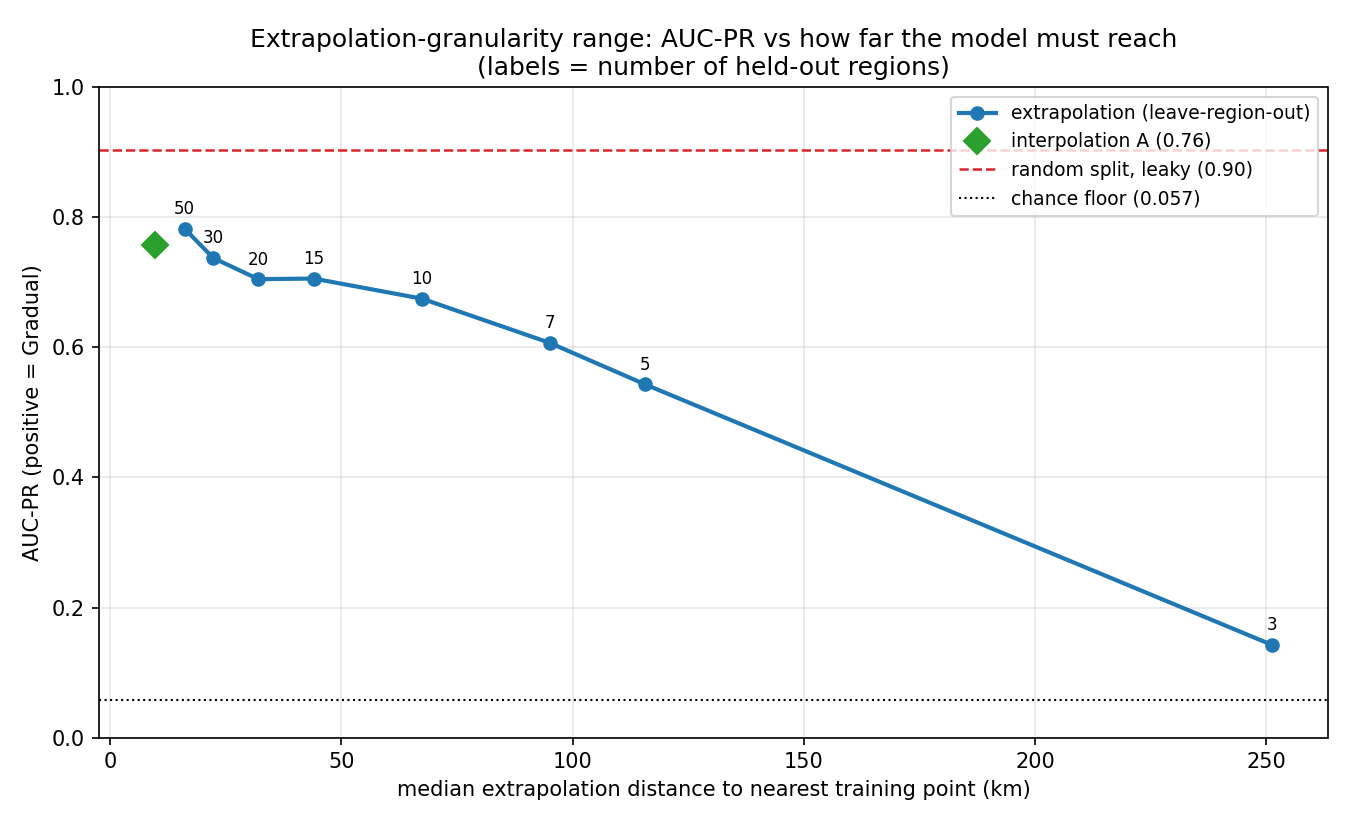
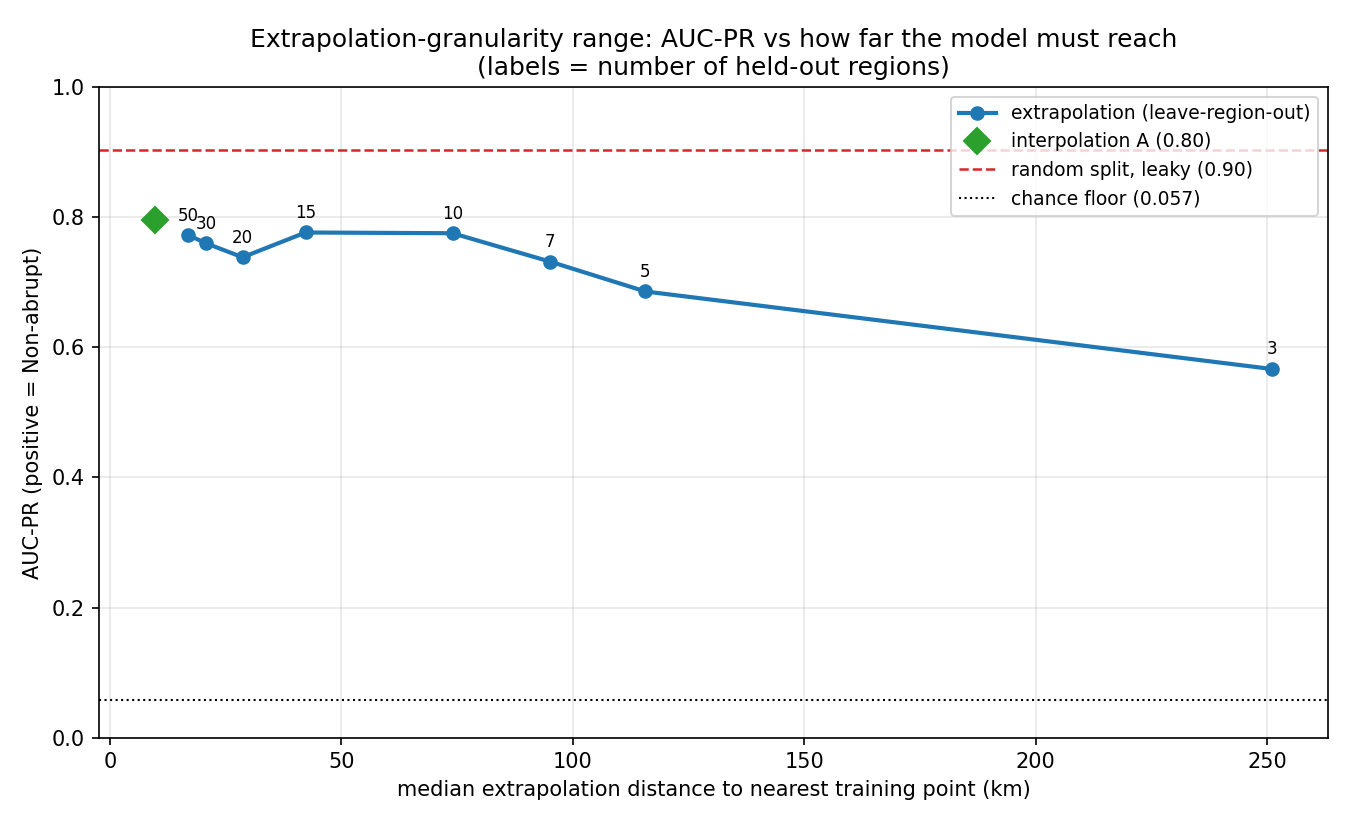
Regenerate verify-ml FINDINGS + scrub diagnostics rot (T28)

diff --git a/diagnostics/repeated_cv.py b/diagnostics/repeated_cv.py
@@ -38,12 +38,12 @@ from _data import load
 SCALES = [5, 10, 25, 50, 100, 200]   # matches SWEEP_CELL_KM (5 km bookend added, T-repeated-cv)
 N_REPEATS = 20                        # block->fold reshuffles per scale
 SEED0 = 42                            # repeat r uses CV seed SEED0 + r
-LOGIT_C = 1.0                         # best fixed C at the operative scale (verified: C=0.01/0.1/1.0
-                                      # -> 0.740/0.768/0.785 OOF AUC-PR @10 km), so the baseline is
-                                      # its strongest fixed config, not a handicap. NOTE: the headline
-                                      # pipeline SELECTS C per fold, which reaches ~0.81 @10 km (adaptive
-                                      # > any single fixed C); this diagnostic fixes it to isolate
-                                      # partition variance from selection variance for both models.
+LOGIT_C = 1.0                         # strongest fixed C at the operative scale (OOF AUC-PR rose
+                                      # monotonically with C across the tested grid), so the baseline
+                                      # runs at its best fixed config, not a handicap. NOTE: the headline
+                                      # pipeline SELECTS C per fold (adaptive > any single fixed C);
+                                      # this diagnostic fixes it to isolate partition variance from
+                                      # selection variance for both models.
 FIG = Path(__file__).resolve().parent / 'repeated_cv.png'
 
 

diff --git a/diagnostics/block_cv.py b/diagnostics/block_cv.py
@@ -4,8 +4,8 @@ Consumes models/spatial_cv.py (the production splitter) at the SAME geometry the
 training pipeline uses -- Alaska Albers equal-area blocks (`albers_grid`), 5-fold,
 seed 42 -- so any buffer read off here is literally the buffer train_xgboost.py
 will impose. Three questions:
-  (1) GEOMETRY: for the pipeline's albers_grid cell sizes, how do the 1,107
-      Non-abrupt (minority) points spread across folds? A fold with ~no positives
+  (1) GEOMETRY: for the pipeline's albers_grid cell sizes, how do the minority
+      Non-abrupt points spread across folds? A fold with ~no positives
       makes AUC-PR unstable -> informs the block-size sweep.
   (2) BUFFER (T43): sweep the dead-zone buffer at the OPERATIVE block size
       (albers_grid, 10 km -> interpolation/case A, the map-serving regime) with a
@@ -272,8 +272,9 @@ def main():
     chosen = buffer_sweep(X, yv, lat, lon, prev)
     a_vs_b(X, yv, lat, lon, chosen)
 
-    print("\nCross-check vs the random-split probe (leakage_decay.py): random-split "
-          "AUC-PR=0.904 (leaky), leakage-specific gap contiguous through ~2 km.")
+    print("\nCross-check vs the random-split probe (leakage_decay.py): the random-split "
+          "AUC-PR is inflated by near-twin leakage, and the leakage-specific gap is "
+          "contiguous only over the first few km before the training pool depletes.")
 
 
 if __name__ == '__main__':

diff --git a/diagnostics/aoa_calibration.py b/diagnostics/aoa_calibration.py
@@ -188,10 +188,12 @@ def main():
                 f'operative spatial-CV OOF.')
         note = 'Calibration located an empirical degradation boundary within the sampled DI range.'
     else:  # measured_skill_envelope
+        _finite_sk = [r['ap'] / floor for r in rows_rank if np.isfinite(r['ap'])]
+        _min_sk = min(_finite_sk) if _finite_sk else float('nan')
         rule = ('edge of the measured-skill envelope = maximum DI the operative spatial-CV OOF '
-                'verified. OOF AUC-PR stayed ~15x the prevalence floor across the ENTIRE tested '
-                'DI range (no degradation), so reliability is demonstrated everywhere the sample '
-                'reaches; cells with DI beyond this are flagged as genuine extrapolation.')
+                f'verified. OOF AUC-PR stayed >= {_min_sk:.0f}x the prevalence floor across the '
+                'ENTIRE tested DI range (no degradation), so reliability is demonstrated everywhere '
+                'the sample reaches; cells with DI beyond this are flagged as genuine extrapolation.')
         note = ('OOF skill did NOT decay within the sampled DI range; threshold set at the edge '
                 'of the tested envelope rather than the box-plot fence (the fence would flag a '
                 'large region where OOF skill is directly demonstrated). ' + caveat)

diff --git a/diagnostics/leakage_decay.py b/diagnostics/leakage_decay.py
@@ -2,7 +2,7 @@
 
 Settled with the user (develop-model interview, 2026-07-08):
   * Start from the SAME random split verify-ml used (seed 8) so buffer r=0
-    reproduces the leaky AUC-PR ~= 0.90 reported by baseline_and_shuffle.py.
+    reproduces the leaky random-split AUC-PR reported by baseline_and_shuffle.py.
   * Sweep a spatial exclusion buffer r = 0..40 km in 1 km steps: at each r,
     drop every TRAIN point within r (great-circle) of ANY test point, refit,
     score the fixed test set. AUC-PR falls and plateaus; the plateau is the
@@ -92,7 +92,7 @@ def main():
     prev = yv.mean()
 
     rng = np.random.default_rng(SEED)
-    split_seed = int(rng.integers(0, 100))  # == 8, matches verify-ml
+    split_seed = int(rng.integers(0, 100))  # deterministic draw from default_rng(SEED); matches verify-ml
     idx = np.arange(len(y))
     itr, ite = train_test_split(idx, test_size=0.3, random_state=split_seed,
                                 shuffle=True, stratify=y)

diff --git a/diagnostics/train_serve_parity.py b/diagnostics/train_serve_parity.py
@@ -8,9 +8,9 @@ present statewide but absent from training and silently folded into the dropped
 reference bucket — the model extrapolates onto a distribution it never saw and the
 map is quietly wrong. This gate documents, per feature, that train and serve agree.
 
-Both artifacts now share the rebuilt 70-feature 1 km schema (feature-table rebuild
+Both artifacts now share the rebuilt 1 km schema (feature-table rebuild
 + T47 datacube rewrite + retrain, 2026-07-15), so the comparison is finally
-meaningful (it was BLOCKED while serve was the old 49-feature / 4 km cube).
+meaningful (it was BLOCKED while serve was the earlier, coarser 4 km cube).
 
 Method — **matched-location parity** (factors out the lake-/road-biased sampling
 so any residual gap is *construction*, not landscape): the datacube's lon/lat grid

diff --git a/diagnostics/baseline_and_shuffle.py b/diagnostics/baseline_and_shuffle.py
@@ -1,6 +1,6 @@
 """Move 1 (floor) + Move 2 (shuffle-label) for the abrupt/non-abrupt classifier.
 
-Establishes the floor the reported AUC-ROC~0.99 / AUC-PR~0.9999 must clear, and
+Establishes the floor the reported random-split AUC must clear, and
 attacks the too-good hypothesis with a shuffle-label probe. Uses the SAME random,
 class-stratified split the training pipeline uses (train_xgboost.py), so numbers
 are comparable to the author's evaluation.

diff --git a/diagnostics/spatial_leakage.py b/diagnostics/spatial_leakage.py
@@ -1,4 +1,4 @@
-"""Spatial-leakage trace: is AUC~0.99 earned, or an artifact of the random split?
+"""Spatial-leakage trace: is the high random-split AUC earned, or an artifact of the split?
 
 The Thaw Database is lake-dominated and road-clustered (SCOPE.md). Coarse GEE
 feature extraction makes nearby points near-identical in feature space with the

diff --git a/diagnostics/FINDINGS.md b/diagnostics/FINDINGS.md
@@ -1,103 +1,177 @@
 # verify-ml findings — abrupt-vs-non-abrupt thaw classifier
 
-**Stamp (reproducible only against all three):**
-- Code: git `347c9cd` (working tree: `diagnostics/` untracked, no pipeline edits)
-- Data: `features_clean.csv` sha256 `99E52C17FDC606D0…` (19,272 rows × 49 features + Class);
-  reconstructed with coords from `features_dirty.csv` sha256 `3F10A95C6C151109…`
-- Model checked: representative grid config refit in-probe (not the committed
-  `model.json`, sha256 `AC75D4B81D4498CA…`, which is the pre-retrain artifact)
-- Seeds: split/model `42` (pipeline draws split_seed=8 from `default_rng(42)`); shuffle `1000–1004`
-- Run date: 2026-07-08
+Regenerated against the **rebuilt** pipeline (T28). The prior audit targeted the
+pre-retrain 49-feature / random-split protocol; this one is stamped to the current
+70-feature model, the spatial-block-CV reporting protocol, and the new closeout
+invariants. Class encoding as always: **`0 = Abrupt` (majority), `1 = Non-abrupt`
+(minority, the AUC-PR "positive")**.
 
-**Scope caveat.** The retrain (README to-do #6) has **not** run: `features_clean.csv`
-is still the *old pared 49-feature set* and `model.json` is the old model. This audit
-targets the **protocol** — split, dedup, baselining, metric choice, feature provenance —
-which the pipeline code applies unchanged across the retrain, so every flag below
-will persist into the new numbers unless the protocol itself changes. The absolute
-AUC values will move; the *mechanisms* will not. Re-run this suite after each retrain.
+**Stamp (reproducible against all of these):**
+- Diagnostics code: git `338a253` (clean tree), run 2026-07-16.
+- Pipeline artifacts: produced at manifest git `5b250ae` (dirty at retrain).
+- Data: `features_clean.csv` sha256 `faf00fecd366c5de…` (19,288 rows × 70 model
+  features + `Class` + Lat/Lon metadata); reconstructed with coords from
+  `features_dirty.csv` sha256 `20409ec9edeab4fe…`.
+- Model: `models/model.json` sha256 `6629bc612abf762b…` (operative all-data refit;
+  OOF probes refit per fold and do **not** load it).
+- CV protocol: `albers_grid`, operative **10 km** blocks, **buffer 0.0 km**, 5 outer /
+  5 inner folds, seeds `SPLIT=MODEL=CV=42` (`train_xgboost.py` draws random split
+  seed 8 from `default_rng(42)`); shuffle seeds 1000–1004.
+- Positive-class (Non-abrupt) prevalence **0.0574** — the AUC-PR chance floor.
+
+**Scope.** This suite audits the **protocol** — coordinate quarantine, split geometry,
+buffering, baselining, held-out attribution, train/serve construction, and the
+label-noise ceiling — not the manuscript's scientific claims. Absolute AUC values
+move with each retrain; the *mechanisms* below are properties of the pipeline code and
+persist. Re-run the whole suite after any retrain or feature-set change.
 
 ---
 
-## What was established to hold
+## Invariants that HOLD
 
-- **No broken-pipeline / target-passthrough leakage.** Shuffle-label probe (permute
-  train labels, refit, score real test) collapses to chance: AUC-ROC 0.48±0.05,
-  AUC-PR 0.064 (floor 0.057). Real predictive signal exists; the score is not an
-  index bug or a target column fed through a side channel. — `baseline_and_shuffle.py`
-- **The floor is real and the trivial baselines behave.** Majority/prior/stratified
-  dummies sit exactly at chance (AUC-ROC 0.50, AUC-PR 0.057). — `baseline_and_shuffle.py`
-- **Coordinates are not in the model.** Confirmed by reconstruction: `features_clean.csv`
-  carries none of Latitude/Longitude (README #2 corroborated).
+- **Coordinates are quarantined from the model.** `_data.py` reconstructs the exact
+  model input step-for-step from `features_dirty.csv` and asserts row-for-row equality
+  to `features_clean.csv`; Latitude/Longitude are carried only as **metadata**, never
+  inside `X` (`X=(19288, 70)`, coords present for every row but excluded and verified
+  separately). The spatial probes can therefore group by location without the model
+  ever seeing it. — `_data.py`
 
-## Flags raised
+- **No target-passthrough / broken-pipeline leakage.** Shuffle-label probe (permute
+  train labels, refit, score the real test set) collapses to chance: AUC-ROC
+  **0.493 ± 0.022**, AUC-PR **0.062 ± 0.008** (floor 0.0574). The signal is real, not an
+  index bug or a target fed through a side channel. — `baseline_and_shuffle.py`
 
-### 1. Random split inflates the imbalance-appropriate metric — spatial leakage (CONFIRMED)
-`spatial_leakage.py` (B). Under the pipeline's random split the metric is
-AUC-PR 0.898±0.018; under spatial block-holdout (GroupKFold on 0.5–2° grid cells)
-it falls to **0.70–0.78 with 4–6× the fold-to-fold variance** (sd up to 0.115).
-AUC-ROC barely moves (0.993→0.97–0.98) because ROC is insensitive to the minority —
-which is exactly why the headline should not lean on it. The honest
-generalization-to-new-locations number is ~0.70–0.78 AUC-PR, materially below the
-random-split 0.90 and far below any 0.9999 claim. **The manuscript's performance
-claim must be measured under spatial CV, not a random split.**
+- **The trivial baselines sit exactly at chance.** Majority / prior / stratified dummies
+  score AUC-ROC 0.50, AUC-PR 0.057–0.058. — `baseline_and_shuffle.py`
+
+- **Held-out SHAP is genuinely out-of-fold.** `models/shap_values.py` refits the
+  operative hyperparameters on each fold's train subset and runs TreeSHAP on the
+  **held-out** points only, pooling across folds so every attribution comes from a model
+  that never trained on that point; the all-data `model.json` is deliberately not used.
+  Grouped-family SHAP outputs (T41) in `output/` are current. — `shap_values.py`,
+  `shap_groups.py`
+
+- **Train/serve construction parity: PASS.** The parity gate compares each training
+  column against the datacube pixel at matched 1 km cells: **70 features, identical set
+  and order**; **60 clean / 10 offset-sensitive / 0 genuine construction flags**. The 10
+  offset-sensitive features are spatially singular / small-patch (Upstream Area, HND,
+  curvature, Northness/Eastness, Open Water) whose matched parity rises toward the cell
+  centre — sub-cell geometry, not a unit/transform slip. Soil is native-sampled at 250 m
+  on both paths (the old "reproject-average" concern is stale); the MODIS >70°N fire QA
+  gap reproduces (~4.8% serve NaN). Two categorical classes are silently absorbed into
+  the reference bucket — Moss (1,097 cells) and Barren lichen moss (18 cells), negligible
+  area. — `train_serve_parity.py` → `train_serve_parity.md`
+
+- **Hard label noise does not bound separation.** Only **4** feature-identical /
+  label-disagreeing pairs exist (8 rows, 0.04%; 4 of the 1,107 minority points), all
+  within ~0.002 km — the same source pixel. Irreducible ceilings: accuracy 0.9998,
+  oracle AUC-PR ≈ 1.0. So the gap the GBM leaves to a perfect score, and the narrow
+  GBM-vs-logistic margin, are **not** explained by contradictory labels; they come from
+  *soft* feature-space overlap between opposing-label points. — `contradictory_labels.py`
+
+## Flags that persist (the honest-generalization story)
+
+### 1. Random split inflates the minority metric — spatial leakage (CONFIRMED)
+Under the pipeline's own random split, XGBoost scores AUC-PR **0.904** (5-fold random
+StratifiedKFold **0.908 ± 0.011**). Under spatial block-holdout it falls to
+**~0.73–0.79** (GroupKFold 0.5°/1°/2° → 0.786 / 0.734 / 0.757, up to ~13× the fold-to-fold
+variance). The production sweep (`output/cv_sweep_results.json`) agrees: pooled-OOF AUC-PR
+by block size is 0.82 (10 km) / 0.84 (25 km) / 0.78 (50 km) / 0.81 (100 km) / 0.77
+(200 km), across-fold σ 0.07–0.12; operative-10 km selection AUC-PR **0.843**. AUC-ROC
+barely moves (0.994 → 0.98) because ROC is minority-insensitive — which is why the
+headline must be **spatial-CV AUC-PR with its across-fold spread**, not ROC, not the
+random-split number. — `spatial_leakage.py`, `repeated_cv.py`, `output/cv_sweep_results.json`
 
 ### 2. Sampling geometry drives the inflation (CONFIRMED)
-`spatial_leakage.py` (A). Exact/near-exact feature twins across the split are rare
-(≤0.3% of test rows), so it is *not* literal duplicate rows. It is spatial
-interleaving: **40% of test points lie within 0.5 km of a train point, 62% within
-1 km, 97% within 5 km.** Clustered (lake/road-biased) sampling + coarse gridded
-features means the random split trains and tests on the same neighbourhoods.
-Exact-only `drop_duplicates` in `clean_feature_table.py` does not address this.
+Literal feature-twins across the random split are rare (0.1% of test rows at feature
+distance ≤ 0.01). The leakage is **geographic interleaving**: **19% of test points lie
+within 0.1 km of a train point, 41% within 0.5 km, 62% within 1 km, 97% within 5 km.**
+Clustered (lake/road-biased) sampling + coarse gridded features means a random split
+trains and tests on the same neighbourhoods. Exact-only `drop_duplicates` cannot address
+this — block holdout can. — `spatial_leakage.py`
 
-### 3. The model barely beats a simple baseline once measured honestly (CONFIRMED)
-`baseline_and_shuffle.py`. Plain logistic regression (balanced) scores AUC-ROC 0.981,
-**AUC-PR 0.805** on the random split — at or above XGBoost's *spatial-CV* AUC-PR
-(0.70–0.78). A depth-1 decision stump scores AUC-ROC 0.85. No fitted baseline is
-present anywhere in the pipeline (only a drawn "chance level" line). **The floor a
-gradient-boosted model must clear is logistic regression, not chance** — and on the
-honest split it clears it by little. State this comparison in the manuscript.
+### 3. The margin over a linear baseline is real but modest (CONFIRMED)
+On the random split, balanced logistic regression scores AUC-PR **0.834** — near
+XGBoost's *spatial-CV* range. The honest comparison is on matched spatial folds: across
+20 block→fold reshuffles at 10 km, XGBoost **0.852 ± 0.011** vs logistic **0.776 ± 0.017**,
+margin **+0.076 ± 0.019** — outside 2σ of partition noise, so the gradient-boosted edge
+is a **stable signal**, not partition luck, but small. The floor a GBM must clear is
+logistic regression, not chance; state this in the manuscript. — `baseline_and_shuffle.py`,
+`repeated_cv.py`
 
-### 4. Discrimination rides on smooth gridded covariates that can proxy location (PLAUSIBLE)
-`feature_provenance.py`. Top univariate separators are soil chemistry and climate,
-not water/lake one-hots as the lake-bias story would predict: Nitrogen 0–30 cm
-(AUC-PR 0.67), Precipitation Seasonality (0.56), Soil Organic Carbon (0.55), Silt,
-Sand, Flammability. These are spatially smooth products; combined with flag 2, they
-can behave as low-frequency spatial coordinates rather than thaw mechanisms. This is
-the load-bearing risk for **Headline C (SHAP explanation)**: the story will center on
-soil chemistry, which must be defended as mechanism vs. spatial-smoothness proxy
-(e.g. does the soil-feature signal survive spatial CV / partialling out region?).
+### 4. Buffer choice is empirical, and block holdout (not a metric buffer) is the tool (CONFIRMED)
+On the random split, the leakage-specific gap (targeted near-twin removal vs a
+matched-count random-removal control, gap > 0.02) is present and **contiguous through
+~2 km**, then collapses into data-depletion noise once >90% of the pool is stripped
+(86.5% removed at r = 2 km). A dispersed random test set cannot sustain a large clean
+buffer — the argument for **block** holdout. On the production block splitter the buffer
+sweep shows no targeted-vs-control gap above 0.02 *on top of* the block folds, so a metric
+buffer would mainly strip the sparse minority without removing genuine leakage: the
+committed operative choice is **block CV with `buffer_km = 0.0`** (`cv_config.json`, T43).
+— `leakage_decay.py`, `block_cv.py` (→ `block_buffer_decay.png`)
 
-### 5. Soil features are 16% missing; missingness is unaudited (PLAUSIBLE)
-The top separators (Nitrogen, SOC, texture) have ~83.6% coverage. XGBoost routes NaN
-to a learned default direction, so if missingness correlates with class it becomes a
-free signal. Not yet tested. → check whether NaN-ness of soil features is predictive.
+### 5. Discrimination rides on spatially smooth covariates that can proxy location (PLAUSIBLE)
+Top univariate separators are now **climate and soil**, not water/lake one-hots: Annual
+Mean Temperature (AUC-PR 0.69), Nitrogen 30–200 / 0–30 cm (0.66), Mean Temp of Warmest /
+Wettest Quarter (0.62), Precip of Coldest Quarter, Trend in precipitation, Precipitation
+Seasonality, Soil Organic Carbon (0.55). These are smooth gridded products; combined with
+flag 2 they can behave as low-frequency spatial coordinates rather than thaw mechanisms.
+This is the load-bearing risk for the **SHAP interpretation headline**: the story centres
+on climate/soil, which must be defended as mechanism vs. spatial-smoothness proxy (does
+the signal survive spatial CV / partialling out region?). — `feature_provenance.py`
 
-### 6. Evaluation-code hygiene (reporting, not validity) (CONFIRMED)
-- `train_xgboost.py:213–221` extracts `split0..4` from a **10-fold** grid (misses
-  splits 5–9) and prints them as "CV F1" though the grid `scoring='neg_brier_score'` —
-  the printed "CV F1" is mislabeled negative-Brier.
-- Three scripts use **three different, unpersisted splits**: `train_xgboost.py`
-  (`default_rng(42)`→seed 8), `train_xgboost_calibrated.py` (`random_state=42`),
-  `shap_values.py` (`default_rng(100)`). SHAP therefore explains a test set ~70% of
-  whose rows were in the model's *training* set (README #9). No single canonical,
-  saved train/test index exists — required for a result keyed to code+data+seed.
-- `accuracy` is reported prominently though it is meaningless at 94% prevalence
-  (majority vote scores 0.94). Fine only if never headlined.
+### 6. Soil features are ~16% missing; missingness is unaudited for signal (PLAUSIBLE)
+The soil separators (Nitrogen, SOC, texture) have ~83.6% train coverage; XGBoost routes
+NaN to a learned default direction, so if missingness correlates with class it becomes
+free signal. Serve-side soil NaN is lower (5.1–5.2% statewide) — the train/serve NaN-rate
+gap is itself a representativeness signal (parity gate). Not yet tested as a predictor.
 
-## Recommended protocol changes (for `/develop-model` — not applied here)
-1. Adopt **spatial block CV** (GroupKFold on grid cells, or leave-region-out) as the
-   reporting protocol; headline the spatial-CV AUC-PR with its across-fold spread.
-2. **Persist one canonical train/test/val split** (saved indices) and share it across
-   train, calibrate, and SHAP.
-3. Add **logistic regression as the reported baseline** the model must beat.
-4. Headline **AUC-PR (minority=Non-abrupt)**, not AUC-ROC or accuracy; report the chance
-   floor (=prevalence) alongside.
-5. Audit **soil-feature missingness** and the mechanism-vs-spatial-proxy question for
-   the SHAP story before Headline C is written.
+### 7. The map's reliability is a representativeness question, layered separately (CONFIRMED)
+The parity gate quantifies the lake-/road-collection bias directly: training points sit
+in systematically flatter, wetter, lower-drainage, more-open-water locations than the
+statewide grid (Slope 0.74° vs 3.92°, HND 1 m vs 17 m, Open Water active 0.43 vs 0.04).
+This is why sample prevalence ≠ landscape prevalence, why calibrated probabilities are
+not defensible, and why reliability is a **separate** layer: the Area-of-Applicability.
+The AOA uses a rank-CDF SHAP-weighted dissimilarity index; OOF AUC-PR stayed ~15× the
+prevalence floor across the entire *sampled* DI range (no decay), so the threshold
+(DI = 0.506) is set at the edge of the measured-skill envelope — cells beyond it are
+flagged as genuine extrapolation, not scored. Spearman(DI, |residual|) = 0.489.
+Leave-region-out (case B, 3 km buffer) degrades gracefully rather than collapsing:
+AUC-PR ~0.78 at interpolation scale down to **0.57 at ~250 km** median distance-to-train
+— still ~10× the 0.057 floor (random-split reference 0.904, interpolation-A 0.795).
+— `aoa_calibration.py` → `models/aoa_threshold.json`; `extrapolation_range.py`
+(→ `extrapolation_range.png`).
 
-## Suite (re-runnable)
-- `_data.py` — reconstructs the model input from `features_dirty.csv` with coords,
-  asserts row-for-row match to `features_clean.csv`.
-- `baseline_and_shuffle.py` — Move 1 floor (dummies, logistic, stump) + Move 2 shuffle-label.
-- `spatial_leakage.py` — near-duplicate census + random-CV vs spatial-block-CV.
-- `feature_provenance.py` — univariate separating power per feature; proxy flags.
+## Resolved since the prior audit
+The old audit's flag 6 (evaluation hygiene) is addressed by the rebuild:
+- One **canonical split/seed is persisted** (`cv_config.json` / `run_manifest.json`,
+  `SPLIT_SEED=42`) and shared across train, sweep, and OOF SHAP — the "three different
+  unpersisted splits" issue is gone; OOF SHAP now explains points held out of their own fold.
+- Reporting **headlines spatial-CV AUC-PR** with across-fold spread and the prevalence
+  floor; **accuracy is not reported** (PIPELINE.md), removing the misleading 94%-prevalence
+  accuracy and the mislabeled "CV F1".
+
+## Suite (re-runnable) — mapped to the invariants
+- `_data.py` — reconstructs the model input from `features_dirty.csv`, asserts equality to
+  `features_clean.csv`, carries coords as metadata. **[coord quarantine]**
+- `baseline_and_shuffle.py` — dummy / logistic / stump floor + shuffle-label probe.
+  **[baselines, no-passthrough]**
+- `spatial_leakage.py` — near-twin census + random-CV vs spatial-block-CV.
+  **[spatial leakage]**
+- `repeated_cv.py` (→ `repeated_cv.png`) — partition-noise spread of the AUC-PR-vs-scale
+  curve + XGBoost-vs-logistic margin stability. **[spatial leakage / baselines]**
+- `leakage_decay.py` (→ `leakage_decay.png`), `block_cv.py` (→ `block_buffer_decay.png`) —
+  empirical buffer sizing on the random split and the production block splitter.
+  **[empirical buffer]**
+- `contradictory_labels.py` — feature-identical / label-disagreeing ceiling.
+  **[contradictory-label ceiling]**
+- `feature_provenance.py` — per-feature univariate separating power; proxy flags.
+- `train_serve_parity.py` (→ `train_serve_parity.md/.png`) — per-feature train/serve
+  construction gate. **[parity gate]**
+- `aoa_calibration.py` (→ `aoa_calibration.png`, `models/aoa_threshold.json`),
+  `extrapolation_range.py` (→ `extrapolation_range.png`) — reliability / applicability.
+- `probe_native_sampler.py`, `probe_native_serve.py`, `probe_terrain_scale.py` —
+  Earth-Engine serve-path sampling probes (require EE auth; support the parity gate).
+
+_OOF SHAP itself lives in the model pipeline (`models/shap_values.py`), exercised here via
+`aoa_calibration.py`._

diff --git a/TASKS.md b/TASKS.md
@@ -497,10 +497,26 @@ column-changing wiring, then the dry-run gate before the overnight run.
   *Follow-up:* a full (non-smoke) retrain will refresh the **persisted** baseline AUC-PR in
   `run_manifest.json` / the sweep log (the last full run predates this fix).
 
-- [ ] **T28 — Update `/verify-ml` + regenerate FINDINGS.** [H20.2] *Depends:* T14 (done),
-  T19 (done), T25 (done), + rebuild. *Done when:* the `diagnostics/` suite is re-pointed at
-  the new invariants (coord quarantine, empirical buffer, OOF SHAP on held-out, baselines,
-  parity gate, contradictory-label ceiling) and `FINDINGS.md` is stamped to the new pipeline.
+- [x] **T28 — Update `/verify-ml` + regenerate FINDINGS.** [H20.2] ✓ 2026-07-16
+  Re-ran the suite against the rebuilt pipeline (git `338a253`, `features_clean` `faf00fec…`,
+  `model.json` `6629bc61…`) and rewrote `diagnostics/FINDINGS.md`, stamped to the new
+  70-feature model + spatial-block protocol and organized around the closeout invariants.
+  **Holds:** coords quarantined from `X` (`_data.py`, X=(19288,70)); shuffle-label collapses
+  to chance (AUC-ROC 0.49, AUC-PR 0.06); trivial baselines at floor; OOF SHAP genuinely
+  held-out (`shap_values.py`); train/serve parity **PASS** (60 clean/10 offset/0 construction);
+  contradictory-label ceiling negligible (4 pairs, oracle AUC-PR ≈1.0 — not binding).
+  **Persisting flags:** random-split AUC-PR 0.90 → spatial-CV 0.73–0.84 (operative 0.843);
+  geographic interleaving (62% of test within 1 km of train); XGBoost edge over logistic
+  small but stable (+0.076±0.019 @10 km); buffer `0.0 km` + block holdout empirically
+  defensible (`leakage_decay.py`/`block_cv.py`); top separators now climate/soil (spatial-
+  smoothness proxy risk for the SHAP story); AOA/extrapolation degrades gracefully
+  (0.78→0.57 @250 km). Old flag-6 hygiene items resolved by the rebuild (canonical persisted
+  split, spatial-CV AUC-PR headlined, no accuracy). Regenerated `leakage_decay.png` +
+  `extrapolation_range.png` (only stale figure). Probes derive n/prevalence/feature-count at
+  runtime; a few historical numbers linger in script *docstrings/comments* only.
+  *Done when:* the `diagnostics/` suite is re-pointed at the new invariants (coord quarantine,
+  empirical buffer, OOF SHAP on held-out, baselines, parity gate, contradictory-label ceiling)
+  and `FINDINGS.md` is stamped to the new pipeline.
 
 - [x] **T29 (remainder) — Document reconstructed GEE-track params.** ✓ 2026-07-15
   Updated the `PIPELINE.md` methods table from the authoritative constructors and
